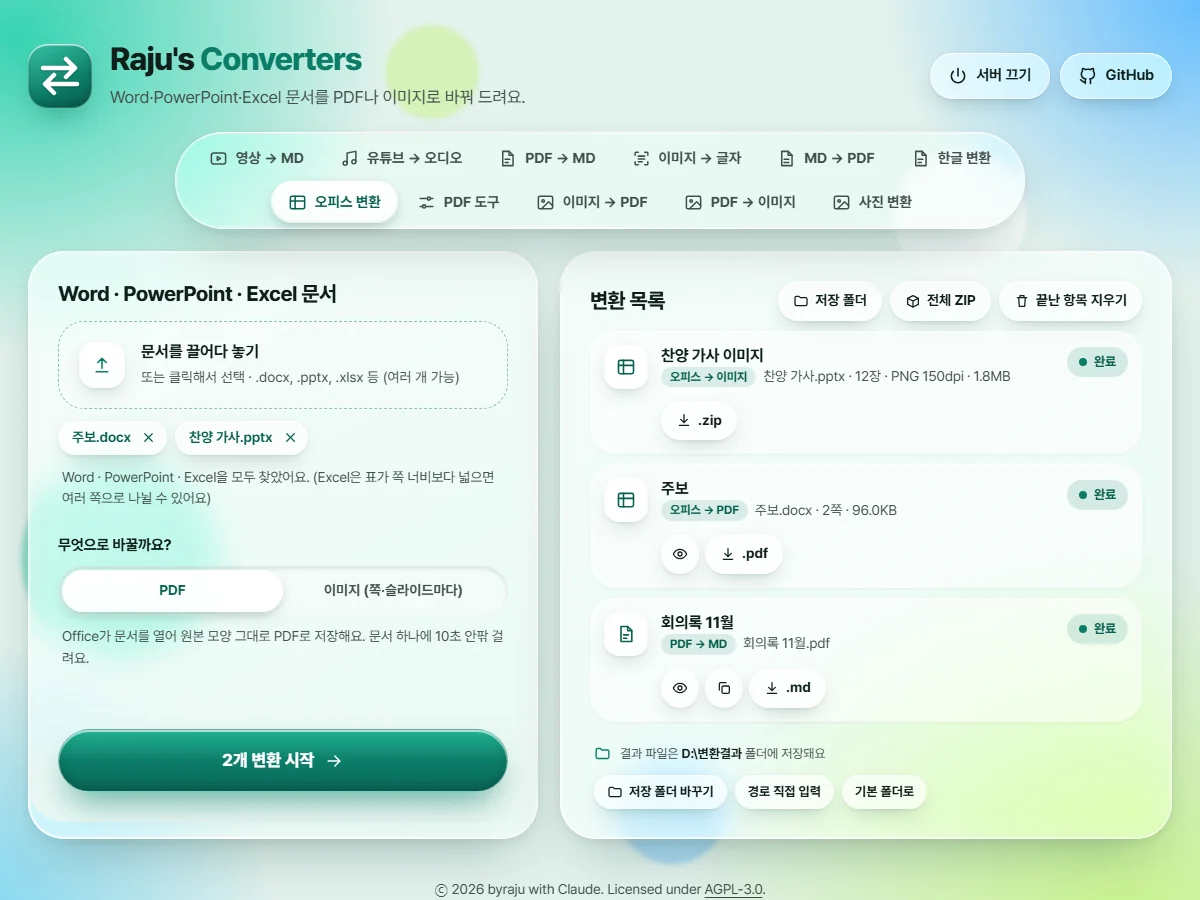
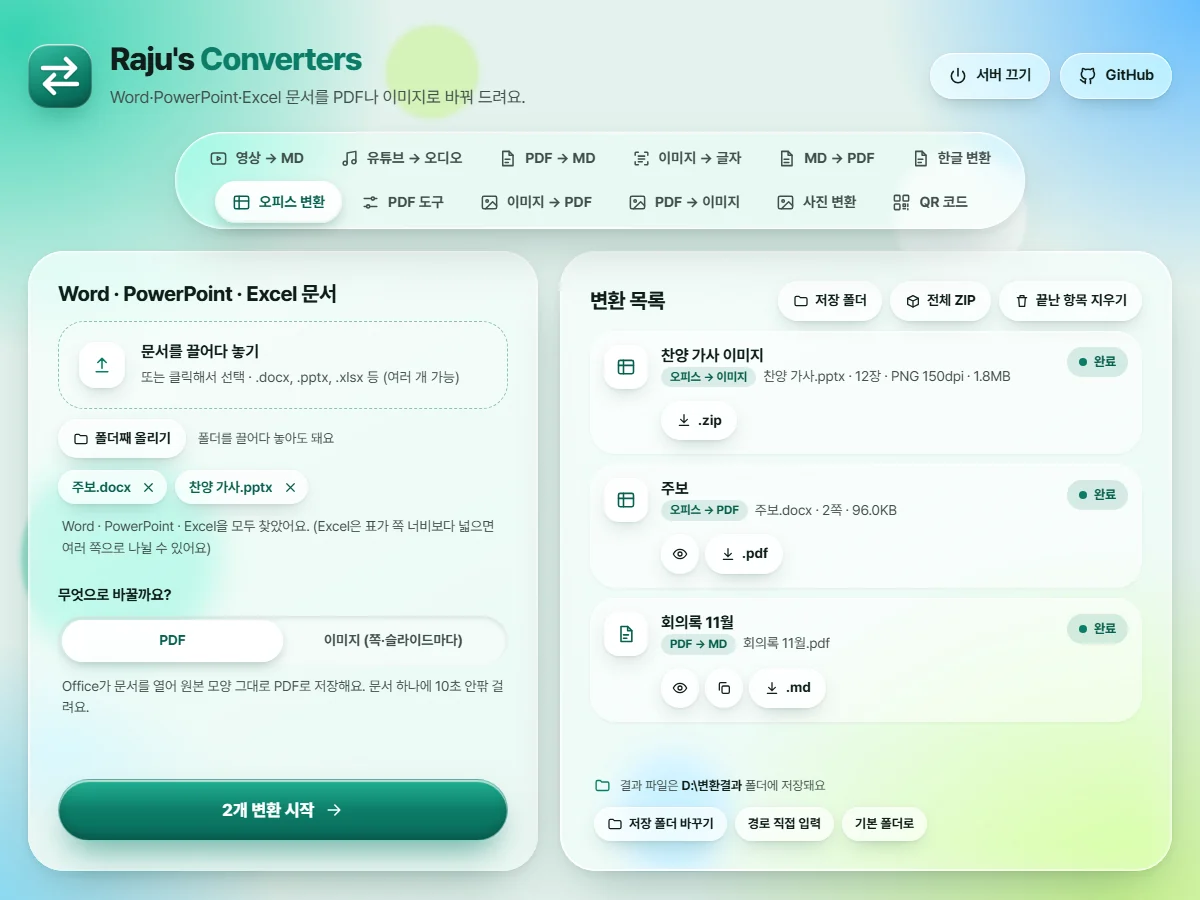
Add QR code tab and folder upload (drop a folder or pick one in every file tab)
- qrmake.py: PNG (optional caption) / SVG, error-correction level, many lines at once; verified by decoding
- folder upload: recursive folder drop + 'folder' button in the 10 file-based tabs, natural-sort order
- intro page, README, screenshots updated (12 tabs)

Claude-Session: https://claude.ai/code/session_01B2S8qTzJQhcT4jkRtWv7Ya

Changed region(s): [[0.0, 0.8089, 0.9867, 1.0], [0.0308, 0.4667, 0.4317, 0.7778], [0.1542, 0.1867, 0.8017, 0.28]]

diff --git a/docs/index.html b/docs/index.html
@@ -6,7 +6,7 @@
 <title>Raju's Converters — 영상·PDF·한글·사진을 내 PC에서 바꾸는 무료 변환 도구</title>
 <meta name="description" content="영상은 Markdown 스크립트로, PDF·한글(HWP) 문서는 Markdown·이미지로, 사진은 HEIC→JPG와 긴 변 기준 리사이즈로. 파일을 인터넷에 올리지 않고 내 PC 안에서 바꾸는 무료 오픈소스 변환 도구입니다.">
 <meta property="og:type" content="website">
-<meta property="og:title" content="Raju's Converters — 한 화면에서 열한 가지 변환">
+<meta property="og:title" content="Raju's Converters — 한 화면에서 열두 가지 변환">
 <meta property="og:description" content="영상·PDF·한글 문서·사진을 내 PC 안에서 바꾸는 무료 도구. 설치는 setup.bat 더블클릭 한 번.">
 <meta property="og:image" content="https://byraju-hub.github.io/converters/assets/og.jpg">
 <meta property="og:url" content="https://byraju-hub.github.io/converters/">
@@ -277,6 +277,9 @@ footer .legal a{text-underline-offset:3px}
 .wave{margin:auto 0;height:calc(var(--fw)*.5);display:flex;align-items:center;justify-content:center;gap:4px}
 .wave i{width:6px;border-radius:3px;background:var(--c);height:30%}
 .wave i:nth-child(2){height:62%}.wave i:nth-child(3){height:90%}.wave i:nth-child(4){height:48%}.wave i:nth-child(5){height:78%}.wave i:nth-child(6){height:36%}.wave i:nth-child(7){height:56%}
+.qrp{margin:auto;width:calc(var(--fw)*.5);height:calc(var(--fw)*.5);display:grid;grid-template-columns:1fr 1fr;gap:5px}
+.qrp i{border-radius:4px;background:repeating-linear-gradient(90deg,var(--c) 0 3px,transparent 3px 6px),repeating-linear-gradient(0deg,var(--c) 0 3px,transparent 3px 6px);background-blend-mode:multiply;border:3px solid var(--c)}
+.qrp i:nth-child(4){opacity:.55;border-style:dashed}
 .pl{margin:auto;color:var(--c)}.pl svg{width:calc(var(--fw)*.34);height:calc(var(--fw)*.34)}
 .fname{display:block;margin-top:12px;text-align:center;font-size:14px;font-weight:700;color:var(--ink);line-height:1.3}
 .fmeta{display:block;margin-top:2px;font-size:12.5px;color:var(--sub);font-weight:600}
@@ -323,6 +326,7 @@ footer .legal a{text-underline-offset:3px}
 
 <svg width="0" height="0" style="position:absolute" aria-hidden="true">
   <defs>
+    <symbol id="i-qr" viewBox="0 0 24 24"><rect x="3" y="3" width="7" height="7" rx="1"/><rect x="14" y="3" width="7" height="7" rx="1"/><rect x="3" y="14" width="7" height="7" rx="1"/><path d="M14 14h3v3h-3zM20 14v3M14 20h3M20 20v1"/></symbol>
     <symbol id="i-music" viewBox="0 0 24 24"><path d="M9 18V5l11-2v13"/><circle cx="6.5" cy="18" r="2.5"/><circle cx="17.5" cy="16" r="2.5"/></symbol>
     <symbol id="i-grid" viewBox="0 0 24 24"><rect x="3" y="4" width="18" height="16" rx="2"/><path d="M3 10h18M9 4v16"/></symbol>
     <symbol id="i-tool" viewBox="0 0 24 24"><path d="M4 7h9M17 7h3M4 17h3M11 17h9"/><circle cx="15" cy="7" r="2"/><circle cx="9" cy="17" r="2"/></symbol>
@@ -394,6 +398,7 @@ footer .legal a{text-underline-offset:3px}
         <button type="button" class="chip" data-k="img2pdf" aria-selected="false"><svg class="i"><use href="#i-image"/></svg>이미지 → PDF</button>
         <button type="button" class="chip" data-k="pdf2img" aria-selected="false"><svg class="i"><use href="#i-stack"/></svg>PDF → 이미지</button>
         <button type="button" class="chip" data-k="heic" aria-selected="false"><svg class="i"><use href="#i-resize"/></svg>HEIC → JPG</button>
+        <button type="button" class="chip" data-k="qr" aria-selected="false"><svg class="i"><use href="#i-qr"/></svg>QR 코드</button>
       </div>
       <div class="dstage">
         <div class="dslot src" id="dsrc"></div>
@@ -418,7 +423,7 @@ footer .legal a{text-underline-offset:3px}
 
 <section class="sec" id="tools" aria-labelledby="tools-h">
   <div class="wrap">
-    <div class="head center"><h2 id="tools-h" class="rv">한 화면에 열한 가지 변환.</h2><p class="rv" style="--d:.06s">탭을 눌러 어떤 일을 할 수 있는지 살펴보세요.</p></div>
+    <div class="head center"><h2 id="tools-h" class="rv">한 화면에 열두 가지 변환.</h2><p class="rv" style="--d:.06s">탭을 눌러 어떤 일을 할 수 있는지 살펴보세요.</p></div>
     <div class="tabrow rv" style="--d:.1s">
       <div class="tabs" role="tablist" aria-label="변환 종류" id="tabs">
         <span class="bub" aria-hidden="true"></span>
@@ -433,6 +438,7 @@ footer .legal a{text-underline-offset:3px}
         <button type="button" role="tab" id="t-img2pdf" aria-selected="false" aria-controls="p-img2pdf"><svg class="i"><use href="#i-image"/></svg>이미지 → PDF</button>
         <button type="button" role="tab" id="t-pdf2img" aria-selected="false" aria-controls="p-pdf2img"><svg class="i"><use href="#i-image"/></svg>PDF → 이미지</button>
         <button type="button" role="tab" id="t-imgconv" aria-selected="false" aria-controls="p-imgconv"><svg class="i"><use href="#i-image"/></svg>사진 변환</button>
+        <button type="button" role="tab" id="t-qr" aria-selected="false" aria-controls="p-qr"><svg class="i"><use href="#i-qr"/></svg>QR 코드</button>
       </div>
     </div>
 
@@ -472,6 +478,11 @@ footer .legal a{text-underline-offset:3px}
           <h3>PDF를 합치고, 나누고, 다듬어요.</h3>
           <p>한 화면에서 다섯 가지 PDF 작업을 해요.</p>
           <ul><li>합치기, 나누기(쪽마다·N쪽씩·범위별)</li><li>쪽 고르기(남기기·지우기)와 회전</li><li>용량 줄이기 — 큰 그림만 줄이고 글자는 그대로예요</li></ul>
+        </div>
+        <div class="panel" id="p-qr" role="tabpanel" aria-labelledby="t-qr" hidden>
+          <h3>링크를 QR 코드로.</h3>
+          <p>주보·포스터에 넣을 QR 코드 이미지를 만들어 드려요.</p>
+          <ul><li>PNG는 아래에 설명 글자를 넣을 수 있어요</li><li>SVG는 현수막처럼 크게 인쇄해도 깨지지 않아요</li><li>인터넷 없이 내 PC에서 만들고, 내용은 어디에도 보내지 않아요</li></ul>
         </div>
         <div class="panel" id="p-img2pdf" role="tabpanel" aria-labelledby="t-img2pdf" hidden>
           <h3>사진과 스캔 이미지를 PDF 한 개로.</h3>
@@ -579,7 +590,7 @@ footer .legal a{text-underline-offset:3px}
       <article class="feat glass rv" data-lens="radius:30,bezel:28,shift:18,blur:14" style="--d:.06s">
         <div class="ic"><svg class="i"><use href="#i-stack"/></svg></div>
         <h3>한꺼번에 여러 개</h3>
-        <p>링크와 파일을 여러 개 올리면 차례로 변환해요. 하나가 실패해도 나머지는 계속 진행돼요.</p>
+        <p>링크와 파일을 여러 개 올리면 차례로 변환해요. 폴더째 끌어다 놓으면 안의 파일을 모두 찾아 담고, 하나가 실패해도 나머지는 계속 진행돼요.</p>
       </article>
       <article class="feat glass rv" data-lens="radius:30,bezel:28,shift:18,blur:14" style="--d:.12s">
         <div class="ic"><svg class="i"><use href="#i-doc"/></svg></div>
@@ -654,7 +665,7 @@ document.documentElement.classList.add('js');
 /* ===== 변환 종류 탭: 선택 표시가 미끄러지고, 스크린샷이 바뀐다 ===== */
 (function(){
   const tabs=document.getElementById('tabs'),btns=[...tabs.querySelectorAll('[role=tab]')],bub=tabs.querySelector('.bub'),img=document.getElementById('shot');
-  const SHOT={video:'영상 링크를 붙여넣고 변환 목록에서 진행 상황을 보는 화면',pdf:'PDF를 올려 Markdown으로 바꾸는 화면',img2pdf:'이미지를 썸네일로 보며 순서를 바꿔 PDF로 묶는 화면',pdf2img:'PDF를 해상도를 골라 이미지로 저장하는 화면',hwp:'한글 문서를 PDF·Markdown·이미지로 바꾸는 화면',imgconv:'사진 형식을 바꾸고 긴 변 길이를 지정하는 화면',audio:'유튜브 링크를 넣어 MP3로 저장하는 화면',ocr:'사진 속 글자를 읽어 Markdown으로 바꾸는 화면',md2pdf:'Markdown 글을 PDF로 만드는 화면',office:'Word·PowerPoint 문서를 PDF나 이미지로 바꾸는 화면',pdftool:'PDF를 합치고 나누고 용량을 줄이는 화면'};
+  const SHOT={video:'영상 링크를 붙여넣고 변환 목록에서 진행 상황을 보는 화면',pdf:'PDF를 올려 Markdown으로 바꾸는 화면',img2pdf:'이미지를 썸네일로 보며 순서를 바꿔 PDF로 묶는 화면',pdf2img:'PDF를 해상도를 골라 이미지로 저장하는 화면',hwp:'한글 문서를 PDF·Markdown·이미지로 바꾸는 화면',imgconv:'사진 형식을 바꾸고 긴 변 길이를 지정하는 화면',audio:'유튜브 링크를 넣어 MP3로 저장하는 화면',ocr:'사진 속 글자를 읽어 Markdown으로 바꾸는 화면',md2pdf:'Markdown 글을 PDF로 만드는 화면',office:'Word·PowerPoint 문서를 PDF나 이미지로 바꾸는 화면',pdftool:'PDF를 합치고 나누고 용량을 줄이는 화면',qr:'링크를 QR 코드 이미지로 만드는 화면'};
   let first=true;
   function place(){const b=btns.find(x=>x.getAttribute('aria-selected')==='true');if(!b||!tabs.offsetWidth)return;
     if(first)bub.style.transition='none';bub.style.width=b.offsetWidth+'px';bub.style.height=b.offsetHeight+'px';bub.style.transform='translate('+b.offsetLeft+'px,'+b.offsetTop+'px)';
@@ -740,9 +751,10 @@ document.documentElement.classList.add('js');
     md2pdf:{s:{ext:'MD',name:'설교 요약.md',meta:'12KB',c:'#0c7d68',k:'lines'},o:{ext:'PDF',name:'설교 요약.pdf',meta:'A4 · 3쪽',c:'#d93f3f',k:'lines'},ok:'정리한 글이 인쇄하기 좋은 PDF가 되었어요.'},
     office:{s:{ext:'DOCX',name:'주보.docx',meta:'96KB',c:'#2b5797',k:'lines'},o:{ext:'PDF',name:'주보.pdf',meta:'원본 모양 그대로',c:'#d93f3f',k:'lines'},ok:'Word 문서가 원본 모양 그대로 PDF가 되었어요.'},
     merge:{s:{ext:'PDF',name:'순서지 2개',meta:'1부 + 2부',c:'#d93f3f',k:'lines'},o:{ext:'PDF',name:'순서지 합본.pdf',meta:'6쪽 · 312KB',c:'#d93f3f',k:'lines'},ok:'PDF 두 개가 한 권으로 합쳐졌어요.'},
+    qr:{s:{ext:'링크',name:'수련회 신청 주소',meta:'example.com/apply',c:'#e8743b',k:'play'},o:{ext:'PNG',name:'QR 수련회 신청.png',meta:'800px · 설명 글자 포함',c:'#0c7d68',k:'qr'},ok:'링크가 주보에 붙일 수 있는 QR 코드 그림이 되었어요.'},
     heic:{s:{ext:'HEIC',name:'IMG_2041.HEIC',meta:'3.4MB',c:'#8a5cd6',k:'thumbs'},o:{ext:'JPG',name:'IMG_2041.jpg',meta:'긴 변 1600px · 0.6MB',c:'#e0a21b',k:'thumbs'},ok:'HEIC가 가벼운 JPG로 바뀌고 크기도 줄었어요.'}
   };
-  const ficon=f=>{const b=f.k==='thumbs'?'<div class="thumbs"><i></i><i></i><i></i><i></i></div>':f.k==='wave'?'<div class="wave"><i></i><i></i><i></i><i></i><i></i><i></i><i></i></div>':f.k==='play'?'<div class="pl"><svg class="i"><use href="#i-play"/></svg></div>':'<div class="lines"><i></i><i></i><i></i><i></i></div>';
+  const ficon=f=>{const b=f.k==='thumbs'?'<div class="thumbs"><i></i><i></i><i></i><i></i></div>':f.k==='qr'?'<div class="qrp"><i></i><i></i><i></i><i></i></div>':f.k==='wave'?'<div class="wave"><i></i><i></i><i></i><i></i><i></i><i></i><i></i></div>':f.k==='play'?'<div class="pl"><svg class="i"><use href="#i-play"/></svg></div>':'<div class="lines"><i></i><i></i><i></i><i></i></div>';
     return '<div class="ficon" style="--c:'+f.c+'"><span class="ext">'+f.ext+'</span>'+b+'</div><b class="fname">'+f.name+'</b><small class="fmeta">'+f.meta+'</small>'};
   let key='video',busy=false,done=false,tok=0,touched=false,drag=null,noClick=false;
   function load(k){

diff --git a/qrmake.py b/qrmake.py
@@ -1,0 +1,137 @@
+#!/usr/bin/env python
+# Copyright (C) 2026 byraju
+# SPDX-License-Identifier: AGPL-3.0-or-later
+# 이 프로그램은 자유 소프트웨어입니다. GNU Affero 일반 공중 사용 허가서(AGPL) 3판 또는 그 이후 판의
+# 조건에 따라 배포·수정할 수 있습니다. 자세한 내용은 LICENSE 파일을 보세요.
+"""링크·글자로 QR 코드 이미지를 만듭니다. (주보·포스터에 넣는 신청 링크, 계좌 안내 등)
+
+  PNG : 크기(px)를 정하고, 아래에 설명 글자를 넣을 수 있음 (주보에 바로 붙여 넣기 좋음)
+  SVG : 아무리 키워도 깨지지 않는 벡터 (현수막·인쇄용)
+인터넷 없이 내 PC 안에서 만들고, 입력한 내용은 어디에도 보내지 않습니다.
+
+사용법:
+  python qrmake.py "https://example.com/apply" [--fmt png|svg] [--size 800] [--level m] [--caption "신청하기"] [-d 결과폴더]
+"""
+import argparse
+import io
+import re
+import sys
+from pathlib import Path
+
+from vod2md import log, safe_name, unique_path
+
+FORMATS = ("png", "svg")
+LEVELS = ("l", "m", "q", "h")            # 오류 정정: 높을수록 일부가 가려져도 읽히지만 점이 촘촘해진다
+BORDER = 4                               # QR 규격이 권하는 흰 여백(칸 수)
+MAX_TEXT = 2000
+FONTS = (r"C:\Windows\Fonts\malgunbd.ttf", r"C:\Windows\Fonts\malgun.ttf", "/System/Library/Fonts/AppleSDGothicNeo.ttc",
+         "/usr/share/fonts/truetype/noto/NotoSansCJK-Bold.ttc", "/usr/share/fonts/truetype/nanum/NanumGothicBold.ttf")
+
+
+def default_name(text):
+    t = re.sub(r"^https?://(www\.)?", "", text.strip())
+    return "QR " + (safe_name(t)[:30] or "코드")
+
+
+def _font(px):
+    from PIL import ImageFont
+    for f in FONTS:
+        if Path(f).is_file():
+            try:
+                return ImageFont.truetype(f, px)
+            except OSError:
+                continue
+    return ImageFont.load_default()
+
+
+def _add_caption(png_bytes, caption):
+    """QR 그림 아래에 설명 글자를 가운데 정렬로 붙인다 (긴 글은 줄을 나눈다)."""
+    from PIL import Image, ImageDraw
+    qr = Image.open(io.BytesIO(png_bytes)).convert("RGB")
+    w = qr.width
+    px = max(18, w // 14)
+    font = _font(px)
+    probe = ImageDraw.Draw(Image.new("RGB", (1, 1)))
+    lines = []
+    for para in caption.splitlines():
+        cur = ""
+        for ch in para.strip():
+            if probe.textlength(cur + ch, font=font) > w * 0.9 and cur:
+                lines.append(cur)
+                cur = ch
+            else:
+                cur += ch
+        lines.append(cur)
+    lines = [l for l in lines if l][:4]
+    if not lines:
+        return png_bytes
+    gap = int(px * 0.35)
+    h = len(lines) * (px + gap) + px // 2
+    out = Image.new("RGB", (w, qr.height + h), "white")
+    out.paste(qr, (0, 0))
+    d = ImageDraw.Draw(out)
+    y = qr.height
+    for l in lines:
+        d.text(((w - probe.textlength(l, font=font)) / 2, y), l, font=font, fill=(20, 20, 20))
+        y += px + gap
+    buf = io.BytesIO()
+    out.save(buf, "PNG")
+    return buf.getvalue()
+
+
+def make_qr(text, out_dir, name=None, fmt="png", size=800, level="m", caption="", dark="#000000", cb=None):
+    """text 를 QR 코드로 만들어 out_dir 에 저장하고 경로를 돌려준다."""
+    try:
+        import segno
+    except ImportError:
+        raise ValueError("QR 코드 도구가 설치되지 않았어요. update.bat 을 실행하거나 'pip install -r requirements.txt'를 실행해 주세요.")
+    text = (text or "").strip()
+    if not text:
+        raise ValueError("QR 코드로 만들 내용이 비어 있어요.")
+    if len(text) > MAX_TEXT:
+        raise ValueError(f"내용이 너무 길어요 ({MAX_TEXT}자 이하). 긴 글은 짧은 링크로 줄여서 넣어 주세요.")
+    fmt = fmt if fmt in FORMATS else "png"
+    level = level if level in LEVELS else "m"
+    size = max(200, min(4000, int(size)))
+    if not re.fullmatch(r"#[0-9a-fA-F]{6}", dark or ""):
+        dark = "#000000"
+    try:
+        qr = segno.make(text, error=level, micro=False, boost_error=False)
+    except Exception as e:
+        raise ValueError("이 내용은 QR 코드에 다 들어가지 않아요. 줄이거나 오류 정정 수준을 낮춰 주세요.") from e
+    modules = qr.symbol_size(border=BORDER)[0]
+    scale = max(1, size // modules)
+    log(f"[QR] {modules}×{modules}칸으로 만드는 중…", cb)
+    out_dir = Path(out_dir)
+    out_dir.mkdir(parents=True, exist_ok=True)
+    path = unique_path(out_dir, safe_name(name) if name else default_name(text), "." + fmt)
+    if fmt == "svg":
+        qr.save(str(path), kind="svg", scale=scale, border=BORDER, dark=dark, xmldecl=True)
+    else:
+        buf = io.BytesIO()
+        qr.save(buf, kind="png", scale=scale, border=BORDER, dark=dark)
+        data = buf.getvalue()
+        if caption and caption.strip():
+            data = _add_caption(data, caption)
+        path.write_bytes(data)
+    return path
+
+
+def main():
+    ap = argparse.ArgumentParser(description="링크·글자 -> QR 코드")
+    ap.add_argument("texts", nargs="+", help="QR 코드로 만들 링크나 글 (여러 개면 하나씩 만듦)")
+    ap.add_argument("--fmt", choices=FORMATS, default="png")
+    ap.add_argument("--size", type=int, default=800, help="PNG 한 변 길이(px)")
+    ap.add_argument("--level", choices=LEVELS, default="m", help="오류 정정 (l 7%% / m 15%% / q 25%% / h 30%%)")
+    ap.add_argument("--caption", default="", help="PNG 아래에 넣을 설명 글자")
+    ap.add_argument("-d", "--dir", default="output")
+    a = ap.parse_args()
+    for t in a.texts:
+        try:
+            print(f"저장: {make_qr(t, a.dir, fmt=a.fmt, size=a.size, level=a.level, caption=a.caption)}")
+        except ValueError as e:
+            print(f"실패: {e}", file=sys.stderr)
+
+
+if __name__ == "__main__":
+    main()

diff --git a/web.py b/web.py
@@ -28,6 +28,7 @@ import mimetypes
 import officeconv
 import pdf2md
 import pdftools
+import qrmake
 import settings
 import vod2md
 
@@ -135,6 +136,11 @@ def run_job(j, cb):
             officeconv.office_to_pdf(j["source"], path, cb)
             j.update(status="done", title=path.stem, file=path.name, fpath=str(path), ext="pdf",
                      meta=f"{pdf_pages(path)}쪽 · {human(path.stat().st_size)}", log="완료")
+    elif kind == "qr":
+        path = qrmake.make_qr(j["text"], OUT, name=j.get("qname") or None, fmt=j["fmt"], size=j["size"],
+                              level=j["level"], caption=j.get("caption", ""), cb=cb)
+        j.update(status="done", title=path.stem, file=path.name, fpath=str(path), ext=path.suffix.lstrip("."),
+                 meta=f"{path.suffix.lstrip('.').upper()} · {human(path.stat().st_size)}", log="완료")
     elif kind == "pdftool":
         run_pdftool(j, cb)
     elif kind == "pdf":
@@ -584,6 +590,26 @@ def submit_pdftool():
     return jsonify(ids)
 
 
+@app.post("/api/submit-qr")
+def submit_qr():
+    f = request.form
+    lines = [l.strip() for l in f.get("text", "").splitlines() if l.strip()]
+    if not lines:
+        return jsonify(error="QR 코드로 만들 링크나 글을 적어 주세요"), 400
+    if len(lines) > 200:
+        return jsonify(error="한 번에 200개까지만 만들 수 있어요"), 400
+    fmt = f.get("fmt") if f.get("fmt") in qrmake.FORMATS else "png"
+    level = f.get("level") if f.get("level") in qrmake.LEVELS else "m"
+    try:
+        size = max(200, min(4000, int(f.get("size", "800"))))
+    except ValueError:
+        size = 800
+    caption = f.get("caption", "").strip()[:120] if fmt == "png" else ""
+    name = f.get("name", "").strip()[:80] if len(lines) == 1 else ""
+    opts = dict(kind="qr", fmt=fmt, level=level, size=size, caption=caption, qname=name)
+    return jsonify([enqueue(opts, source="", text=l, label=l[:60]) for l in lines])
+
+
 @app.post("/api/retry/<jid>")
 def retry(jid):
     local_only()
@@ -598,7 +624,7 @@ def retry(jid):
     return jsonify(id=enqueue(opts, source=j["source"], label=j["label"]))
 
 
-HIDDEN = {"md", "fpath", "dir", "tmp", "tmps", "names", "md_text", "stem"}
+HIDDEN = {"md", "fpath", "dir", "tmp", "tmps", "names", "md_text", "stem", "text", "caption", "qname"}
 
 
 @app.get("/api/jobs")
